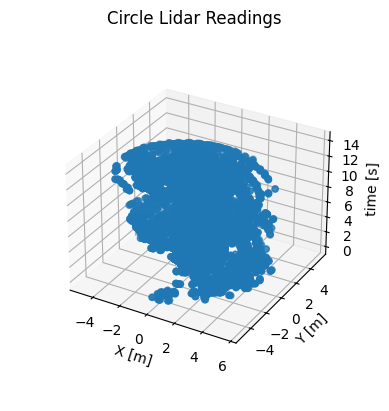
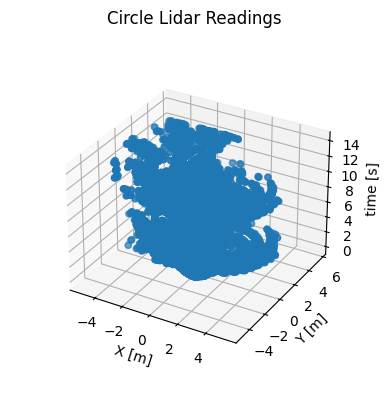
fix lidar plot

diff --git a/filePlotter.py b/filePlotter.py
@@ -69,8 +69,8 @@ def plot_laser(filename):
     angles = np.arange(stop=2 * np.pi, step=angle)
 
     # data starts at front of robot (positive x)
-    x: np.ndarray = laser_data * np.cos(angles)
-    y: np.ndarray = laser_data * np.sin(angles)
+    x: np.ndarray = laser_data * np.sin(angles)
+    y: np.ndarray = laser_data * np.cos(angles)
 
     fig = plt.figure()
     ax = fig.add_subplot(projection="3d")
@@ -96,6 +96,7 @@ def plot_laser(filename):
     plt.ylabel("Y [m]")
 
     plt.title(f"{path_type} Initial Lidar Reading")
+    plt.gca().set_aspect('equal')
 
     plt.savefig(
         f"plots/{path_type.lower()}_lidar.png", transparent=True, bbox_inches="tight"
@@ -126,7 +127,7 @@ if __name__ == "__main__":
             if os.path.splitext(f)[1] == ".csv"
         ]
 
-    print("plotting the files", args.files)
+    print("plotting the files", filenames)
 
     for filename in filenames:
         filenames: str
